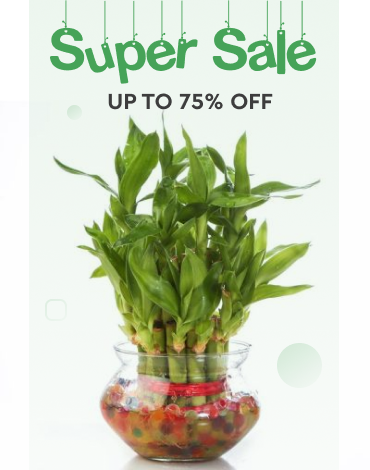
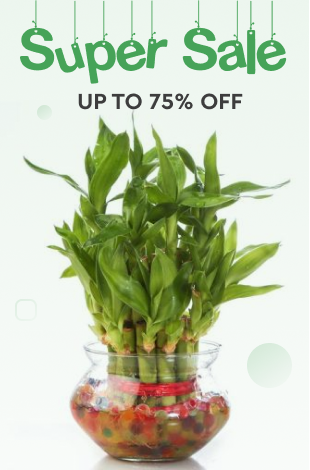
230125 remake

diff --git a/CSS/style.css b/CSS/style.css
@@ -37,10 +37,12 @@ box-sizing: border-box
     font-weight: normal;
     font-style: normal;
 }
-
 header{
     margin-bottom: 12px;
-    padding: 30px 120px 0;
+    padding: 25px 20px 0px;
+}
+header .container{
+    border-bottom: 0.30px solid rgba(70, 163, 88, 0.5);
 }
 header nav ul{
     display: flex;
@@ -70,25 +72,39 @@ header .login{
 header .login svg{
     margin-right: 4px;
 }
+.chosen_header{
+    font-family: 'cera_promedium', sans-serif;
+    font-weight: 600;
+    font-size: 16px;
+    color: #3d3d3d;
+    text-decoration: none;
+    border-bottom: 4px solid #46a358;
+}
+.categories div{
+    padding-left: 32px;
+}
+.categories h3{
+    margin-bottom: 5px;
+}
 .categories{
-    padding-left: 20px;
+    color: #3d3d3d;
+    text-decoration: none;
+    font-weight: 500;
+    font-size: 15px;
+    line-height: 267%;
+    align-content: space-between;
 }
 .categories .chosen_one{
     font-family: 'cera_promedium', sans-serif;
     color: #46A358;
+    font-weight: 900;
 }
 .categories a{
     color: #3d3d3d;
     text-decoration: none;
-    padding-left: 12px;
-    font-weight: 500;
-    font-size: 15px;
-    line-height: 267%;
 }
 .categories ul{
-    padding-left: 12px;
     list-style: none;
-    margin-bottom: 20px;
 }
 .sort_by{
     margin-bottom: 30px;
@@ -97,29 +113,40 @@ header .login svg{
 }
 .sort_by_right{
     display: flex;
+    align-items: center;
 }
 .sort_by ul{
     list-style: none;
     display: flex;
-    gap: 50px;
+    gap: 30px;
 }
 .sort_by a{
     text-decoration: none;
     color: #3d3d3d;
 }
+.sort_by p{
+    padding: 5px;
+}
+.sort_by .chosen_one{
+    font-family: 'cera_promedium', sans-serif;
+    color: #46A358;
+    font-weight: 900;
+}
 .products{
     display: flex;
     justify-content: space-between;
     flex-wrap: wrap;
-    margin-bottom: 90px;
+    margin-bottom: 60px;
 }
 .products h3{
     color: #46A358;
 }
 .products div{
+    align-content: flex-end;
     margin-bottom: 70px;
-    width: 260px;
-    height: 350px;
+}
+.products img{
+    margin-bottom: 12px;
 }
 .container{
     max-width: 1200px;
@@ -129,22 +156,24 @@ header .login svg{
     font-family: 'cera_proregular', sans-serif;
     align-items: center;
 }
-.container-float{
+.container_float{
     max-width: 1200px;
     margin: auto;
     display: flex;
-    justify-content: space-between;
     font-family: 'cera_proregular', sans-serif;
-    align-items: stretch;
 }
 .banner{
     display: flex;
     align-items: center;
     padding-left: 40px;
+    font-family: 'cera_proregular', sans-serif;
+    font-weight: 400;
+    font-size: 14px;
+    line-height: 200%;
+    color: #727272;
 }
 .banner h1{
     font-family: 'cera_problack', sans-serif;
-    font-weight: bold;
     font-size: 70px;
     line-height: 100%;
     text-transform: uppercase;
@@ -152,26 +181,21 @@ header .login svg{
     margin-bottom: 10px;
 }
 .banner p{
-    font-family: 'cera_proregular', sans-serif;
-    font-weight: 400;
-    font-size: 14px;
-    line-height: 171%;
-    color: #727272;
-    margin-bottom: 20px;
+    margin-bottom: 50px;
 }
 .banner h3{
     font-family: 'cera_proregular', sans-serif;
     font-weight: 500;
     font-size: 14px;
-    line-height: 114%;
-    letter-spacing: 0.1em;
+    line-height: 100%;
     text-transform: uppercase;
     color: #3d3d3d;
+    margin-bottom: 7px;
 }
 .banner a{
     background: #46a358;
     border-radius: 6px;
-    padding: 12px 26px;
+    padding: 10px 20px;
     align-items: center;
     font-family: 'cera_proregular', sans-serif;
     font-weight: 800;
@@ -179,8 +203,6 @@ header .login svg{
     color: #fff;
     text-decoration: none;
 }
-
-
 .registration_frame {
     font-family: 'cera_proregular', sans-serif;
     max-width: 500px;

diff --git a/index.html b/index.html
@@ -17,7 +17,7 @@
         <nav>
             <ul>
                 <li>
-                    <a href="#">Home</a>
+                    <a href="#" class="chosen_header">Home</a>
                 </li>
                 <li>
                     <a href="#">Shop</a>
@@ -57,8 +57,9 @@
         </div>
     </section>
 
-    <section class="container-float">
+    <section class="container_float">
         <div class="categories">
+            <div>
                 <h3>Categories</h3>
                 <ul>
                     <li>
@@ -89,14 +90,14 @@
                         <a href="#">Accessories</a>
                     </li>
                 </ul>
-            <div><img src="images/Super Sale Banner.png" height="470" width="370" alt="banner"></div>
+            </div>
+            <img src="images/Super Sale Banner.png" height="470" width="310" alt="sale">
         </div>
-
-        <div>
+        <div style="padding-left: 50px;">
             <div class="sort_by">
                     <ul>
                         <li>
-                            <a href="#">All Plants</a>
+                            <a href="#" class="chosen_one">All Plants</a>
                         </li>
                         <li>
                             <a href="#">New Arrivals</a>
@@ -108,6 +109,9 @@
                 <div class="sort_by_right">
                     <p>Sort by:</p>
                     <p>Default sorting</p>
+                    <svg width="16" height="16" viewBox="0 0 16 16" fill="none" xmlns="http://www.w3.org/2000/svg">
+                        <path d="M12.6667 5.66669L8.00004 10.3334L3.33337 5.66669" stroke="#3D3D3D" stroke-width="1.5" stroke-linecap="round" stroke-linejoin="round"/>
+                    </svg>
                 </div>
             </div>
 

diff --git a/flex test.html b/flex test.html
@@ -8,8 +8,9 @@
     <title>Flex test</title>
 </head>
 <body>
-    <div style="height: 500px; background-color: lightcoral; display: flex; justify-content: space-between; align-items: stretch; flex-wrap: wrap; align-content: flex-start">
-        <div style="flex-basis: 300px; margin: 10px; background: gold">Lorem ipsum dolor sit amet, consectetur adipisicing elit. Amet deleniti ea eos est harum illum impedit tenetur voluptate voluptatum! Accusantium commodi consequatur dolor dolores illo quo repudiandae voluptatibus? Explicabo, magni?</div>
+    <div style="background-color: lightcoral; display: flex; flex-wrap: wrap">
+
+        <div style="flex-basis: 300px; margin: 10px; background: gold">Lorem ipsum dolor sit amet, consectetur adipisicing elit. Amet deleniti ea eos est harum illum impedit tenetur voluptate voluptatum! Accusantium commodi consequatur dolor dolores illo quo repudiandae voluptatibus? Explicabo, magni? Lorem ipsum dolor sit amet, consectetur adipisicing elit. A aperiam at consequuntur delectus dignissimos dolores, ea excepturi explicabo itaque labore non optio quidem quisquam repellendus sint sit tenetur vitae, voluptates.</div>
         <div style="flex-basis: 300px; margin: 10px; background: gold">OOO</div>
         <div style="flex-basis: 300px; margin: 10px; background: gold">OOO</div>
         <div style="flex-basis: 300px; margin: 10px; background: gold">OOO</div>
